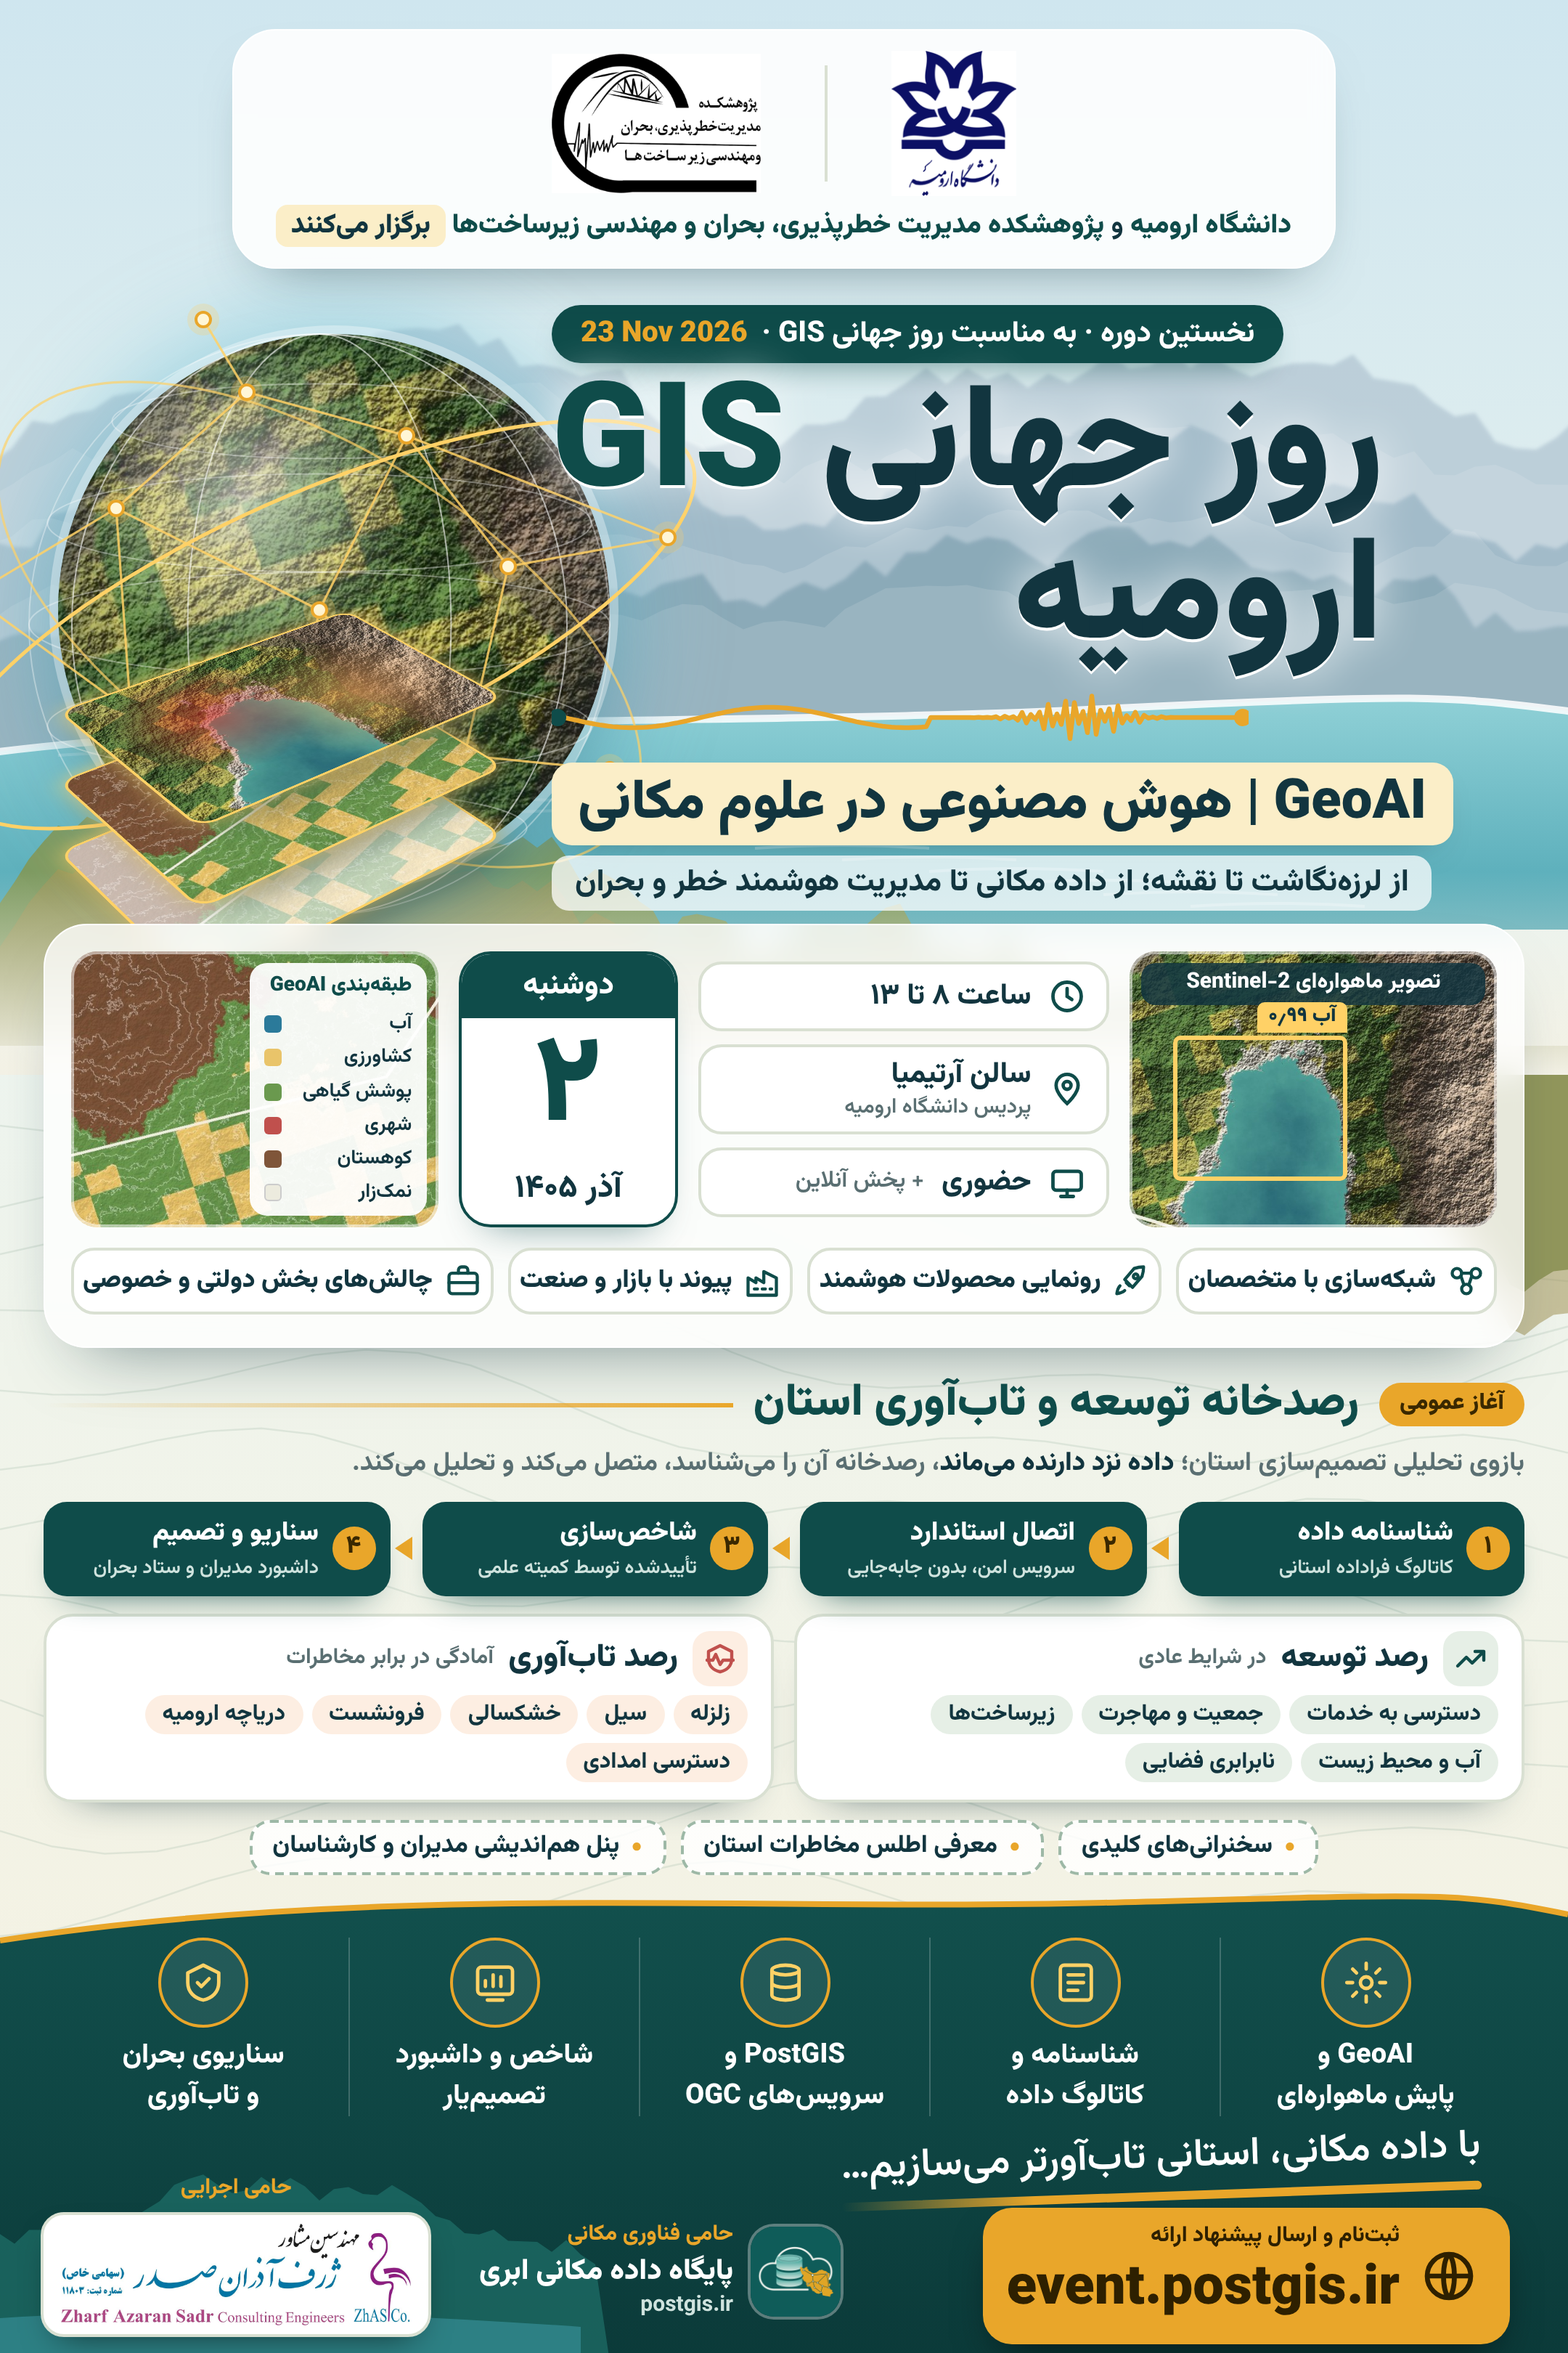
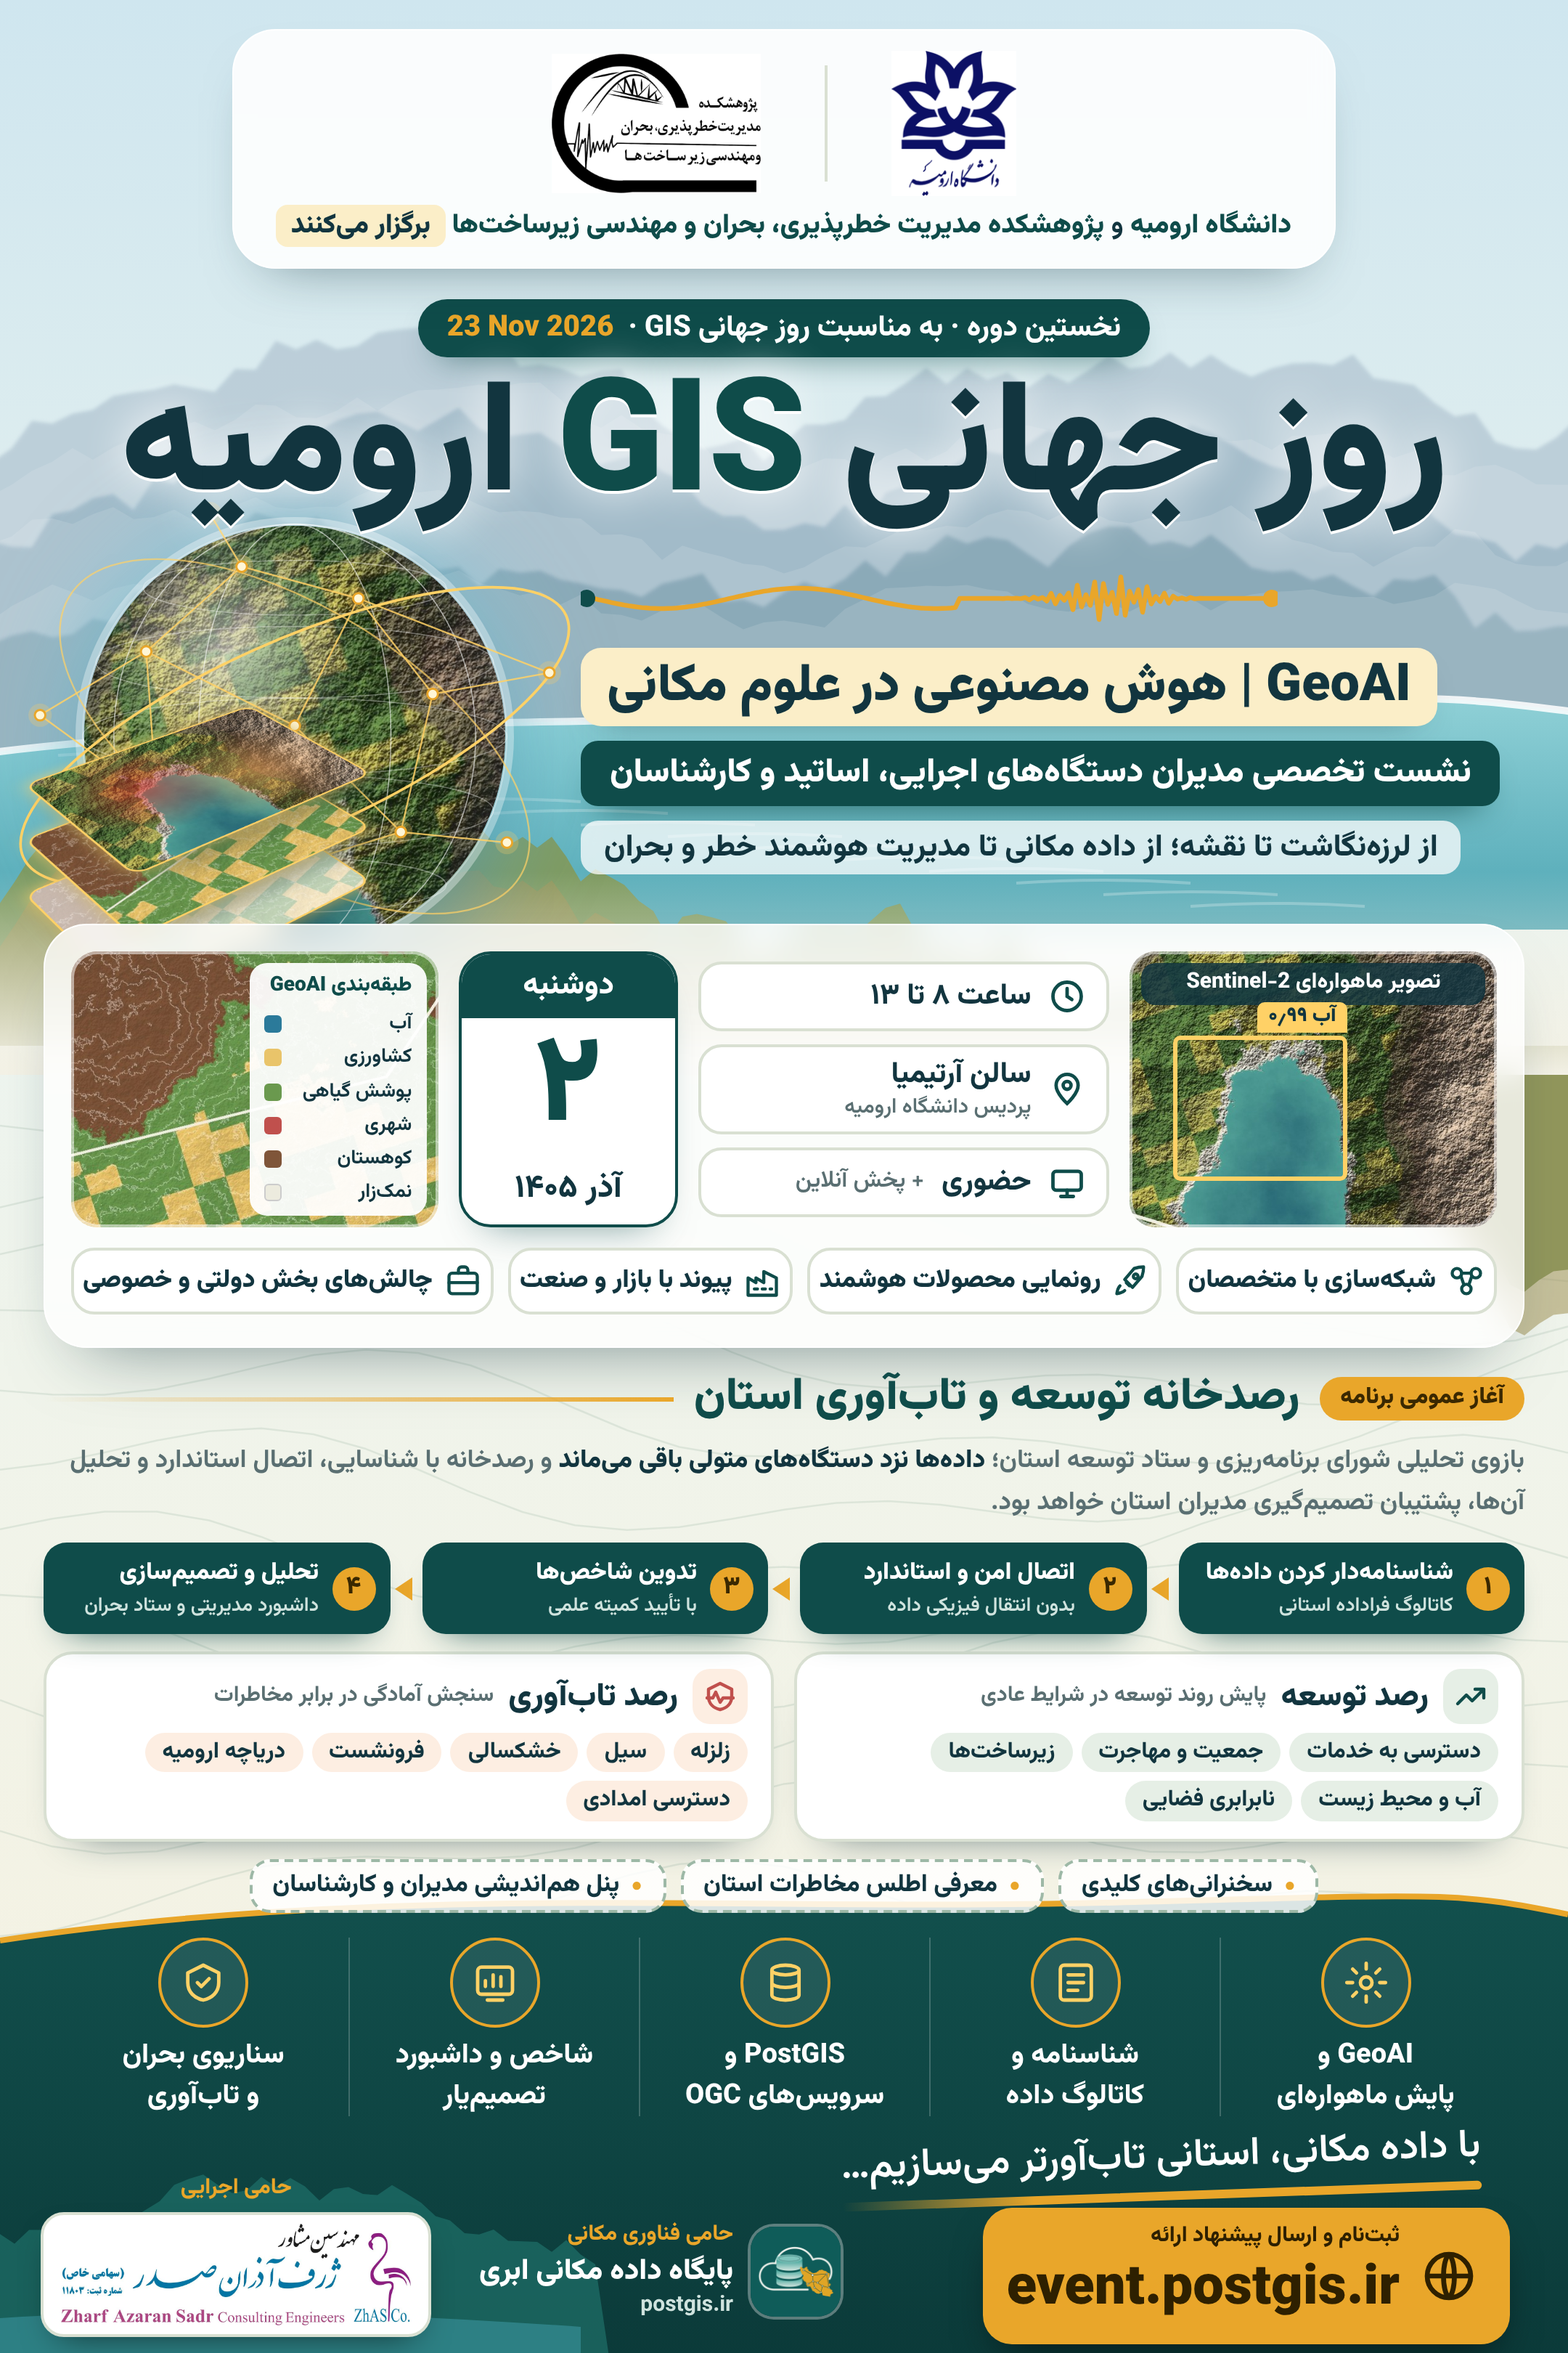
Poster v2: one-line title, formal subtitle for officials, formal observatory wording
Claude-Session: https://claude.ai/code/session_01611Z92RBWte6qBpQNsvh7V

Changed region(s): [[0.0, 0.1247, 0.9616, 0.4052], [0.031, 0.5611, 0.9926, 0.8105]]

diff --git a/promo/src/poster5.html b/promo/src/poster5.html
@@ -14,20 +14,22 @@ body{background:#f4f2e6}
 .statement b{color:var(--pri);font-weight:900}
 .statement .v{background:var(--acsoft);padding:0 10px;border-radius:8px;font-weight:900}
 /* hero */
-.hero{right:40px;top:210px;width:660px;display:flex;flex-direction:column;align-items:flex-end;gap:7px;z-index:4}
+.top{left:20px;right:20px;top:206px;display:flex;flex-direction:column;align-items:center;gap:6px;z-index:4}
+.hero{right:40px;top:392px;width:640px;display:flex;flex-direction:column;align-items:flex-end;gap:10px;z-index:4}
+.formal{font-size:23px;font-weight:900;color:#fff;background:var(--pri);padding:5px 20px;border-radius:12px;box-shadow:0 12px 24px -14px #0f4c4a}
 .kicker{display:inline-flex;gap:10px;align-items:center;background:var(--pri);color:#fff;font-weight:800;font-size:20px;padding:5px 20px;border-radius:99px;box-shadow:0 10px 24px -14px #0f4c4a}
 .kicker span{direction:ltr;color:var(--ac);font-weight:900}
-h1{font-size:100px;font-weight:900;line-height:1.05;white-space:nowrap;text-align:right;color:var(--dark);text-shadow:0 2px 0 #fff,0 0 30px rgba(255,255,255,.9)}
+h1{font-size:108px;font-weight:900;line-height:1.1;white-space:nowrap;text-align:center;letter-spacing:-1px;color:var(--dark);text-shadow:0 2px 0 #fff,0 0 30px rgba(255,255,255,.9)}
 h1 em{font-style:normal;color:var(--pri)}
-.axis{font-size:38px;font-weight:900;margin-top:4px}
+.axis{font-size:36px;font-weight:900;margin-top:4px}
 .axis mark{box-shadow:0 10px 24px -16px #12353f88}
 .sub{font-size:21px;font-weight:800;color:var(--tx);background:rgba(255,255,255,.75);padding:3px 16px;border-radius:12px}
 /* globe */
-.globe{left:40px;top:230px;width:380px;height:380px;z-index:3}
+.globe{left:58px;top:362px;width:290px;height:290px;z-index:3}
 .sphere{position:absolute;inset:0;border-radius:50%;background:url(../assets/crop-globe.jpg) center/150% auto;box-shadow:0 0 0 6px rgba(255,255,255,.35),0 0 60px 16px rgba(120,200,220,.55),0 30px 60px -20px #12353faa}
 .sphere:after{content:"";position:absolute;inset:0;border-radius:50%;background:radial-gradient(circle at 34% 30%,rgba(255,255,255,.55),rgba(255,255,255,0) 32%),radial-gradient(circle at 50% 50%,rgba(0,0,0,0) 55%,rgba(10,40,50,.55) 100%)}
-.net{position:absolute;inset:-60px;overflow:visible}
-.layers{left:70px;top:400px;width:300px;height:230px;z-index:4}
+.net{position:absolute;inset:-45px;overflow:visible;width:380px;height:380px}
+.layers{left:40px;top:470px;transform:scale(.78);transform-origin:0 0;width:300px;height:230px;z-index:4}
 .layer{position:absolute;left:0;width:250px;height:170px;border-radius:12px;transform:rotateX(58deg) rotateZ(-38deg);transform-origin:center;box-shadow:0 0 0 2px #ffd166,0 0 18px 2px rgba(255,209,102,.7),0 20px 30px -10px #12353f99;background-size:cover;background-position:center}
 /* info panel */
 .panel{left:30px;right:30px;top:636px;height:292px;background:rgba(255,255,255,.78);backdrop-filter:blur(10px);border:1.5px solid #fff;border-radius:30px;box-shadow:0 24px 50px -28px #12353f99;padding:18px;z-index:4}
@@ -85,15 +87,15 @@ h1 em{font-style:normal;color:var(--pri)}
 .loc i{width:52px;height:52px;border-radius:50%;border:2px solid #ffffffaa;display:grid;place-items:center;background:#ffffff1a}
 .loc b{display:block;font-size:21px;font-weight:900}.loc small{font-size:14px;color:#d6e6e2;font-weight:700}
 
-.obs{left:30px;right:30px;top:944px;z-index:4}
+.obs{left:30px;right:30px;top:940px;z-index:4}
 .obs-h{display:flex;align-items:center;gap:14px}
 .obs-h .badge{background:var(--ac);color:#3a2800;font-size:16px;font-weight:900;padding:3px 14px;border-radius:99px;white-space:nowrap}
 .obs-h h2{font-size:31px;font-weight:900;color:var(--pri);white-space:nowrap}
 .obs-h:after{content:"";flex:1;height:3px;background:linear-gradient(270deg,var(--ac),transparent)}
-.obs-sub{font-size:18px;font-weight:700;color:var(--mut);margin:4px 0 12px}
+.obs-sub{font-size:17.5px;font-weight:700;color:var(--mut);margin:4px 0 12px;line-height:1.7}
 .obs-sub b{color:var(--tx)}
 .flow{display:grid;grid-template-columns:repeat(4,1fr);gap:22px;direction:rtl;margin-bottom:12px}
-.flow div{position:relative;background:var(--pri);color:#fff;border-radius:16px;padding:9px 10px 9px 8px;font-size:18px;font-weight:900;display:flex;align-items:center;gap:9px;box-shadow:0 12px 24px -16px #0f4c4a}
+.flow div{position:relative;background:var(--pri);color:#fff;border-radius:16px;padding:9px 10px 9px 8px;font-size:16.5px;font-weight:900;display:flex;align-items:center;gap:9px;box-shadow:0 12px 24px -16px #0f4c4a}
 .flow div b{width:30px;height:30px;border-radius:50%;background:var(--ac);color:#3a2800;display:grid;place-items:center;font-size:17px;flex:none}
 .flow div small{display:block;font-size:13.5px;font-weight:600;color:#cfe3de}
 .flow div:not(:last-child):after{content:"";position:absolute;left:-19px;top:50%;margin-top:-8px;border:8px solid transparent;border-right:12px solid var(--ac);border-left:0}
@@ -126,12 +128,15 @@ h1 em{font-style:normal;color:var(--pri)}
  <div class="layer" style="top:0;background-image:radial-gradient(circle at 30% 40%,#d7302799,transparent 35%),radial-gradient(circle at 70% 60%,#fdae6199,transparent 40%),url(../assets/crop-natural.jpg)"></div>
 </div>
 
-<div class="abs hero">
+<div class="abs top">
  <div class="kicker">نخستین دوره · به مناسبت روز جهانی GIS · <span>23 Nov 2026</span></div>
- <h1>روز جهانی <em>GIS</em><br>ارومیه</h1>
+ <h1>روز جهانی <em>GIS</em> ارومیه</h1>
+</div>
+<div class="abs hero">
  <div id="wave"></div>
  <div class="axis"><mark>GeoAI | هوش مصنوعی در علوم مکانی</mark></div>
-<div class="sub">از لرزهنگاشت تا نقشه؛ از داده مکانی تا مدیریت هوشمند خطر و بحران</div>
+ <div class="formal">نشست تخصصی مدیران دستگاههای اجرایی، اساتید و کارشناسان</div>
+ <div class="sub">از لرزهنگاشت تا نقشه؛ از داده مکانی تا مدیریت هوشمند خطر و بحران</div>
 </div>
 
 <div class="abs panel">
@@ -154,18 +159,18 @@ h1 em{font-style:normal;color:var(--pri)}
 </div>
 
 <div class="abs obs">
- <div class="obs-h"><span class="badge">آغاز عمومی</span><h2>رصدخانه توسعه و تابآوری استان</h2></div>
- <div class="obs-sub">بازوی تحلیلی تصمیمسازی استان؛ <b>داده نزد دارنده میماند</b>، رصدخانه آن را میشناسد، متصل میکند و تحلیل میکند.</div>
+ <div class="obs-h"><span class="badge">آغاز عمومی برنامه</span><h2>رصدخانه توسعه و تابآوری استان</h2></div>
+ <div class="obs-sub">بازوی تحلیلی شورای برنامهریزی و ستاد توسعه استان؛ <b>دادهها نزد دستگاههای متولی باقی میماند</b> و رصدخانه با شناسایی، اتصال استاندارد و تحلیل آنها، پشتیبان تصمیمگیری مدیران استان خواهد بود.</div>
  <div class="flow">
-  <div><b>۱</b><span>شناسنامه داده<small>کاتالوگ فراداده استانی</small></span></div>
-  <div><b>۲</b><span>اتصال استاندارد<small>سرویس امن، بدون جابهجایی</small></span></div>
-  <div><b>۳</b><span>شاخصسازی<small>تأییدشده توسط کمیته علمی</small></span></div>
-  <div><b>۴</b><span>سناریو و تصمیم<small>داشبورد مدیران و ستاد بحران</small></span></div>
+  <div><b>۱</b><span>شناسنامهدار کردن دادهها<small>کاتالوگ فراداده استانی</small></span></div>
+  <div><b>۲</b><span>اتصال امن و استاندارد<small>بدون انتقال فیزیکی داده</small></span></div>
+  <div><b>۳</b><span>تدوین شاخصها<small>با تأیید کمیته علمی</small></span></div>
+  <div><b>۴</b><span>تحلیل و تصمیمسازی<small>داشبورد مدیریتی و ستاد بحران</small></span></div>
  </div>
  <div class="twin">
-  <div class="tw"><h3><i style="background:var(--bg2)"><svg width="24" height="24" viewBox="0 0 24 24" fill="none" stroke="#0f4c4a" stroke-width="2.2" stroke-linecap="round" stroke-linejoin="round"><path d="M3 17l6-6 4 4 8-8M15 7h6v6"/></svg></i>رصد توسعه <small>در شرایط عادی</small></h3>
+  <div class="tw"><h3><i style="background:var(--bg2)"><svg width="24" height="24" viewBox="0 0 24 24" fill="none" stroke="#0f4c4a" stroke-width="2.2" stroke-linecap="round" stroke-linejoin="round"><path d="M3 17l6-6 4 4 8-8M15 7h6v6"/></svg></i>رصد توسعه <small>پایش روند توسعه در شرایط عادی</small></h3>
    <div class="chips"><span>دسترسی به خدمات</span><span>جمعیت و مهاجرت</span><span>زیرساختها</span><span>آب و محیط زیست</span><span>نابرابری فضایی</span></div></div>
-  <div class="tw r"><h3><i style="background:#fdeee2"><svg width="24" height="24" viewBox="0 0 24 24" fill="none" stroke="#c0504d" stroke-width="2.2" stroke-linecap="round" stroke-linejoin="round"><path d="M12 3l8 4v5c0 5-3.5 8-8 9-4.5-1-8-4-8-9V7z"/><path d="M3 13h4l2-4 3 7 2-3h7"/></svg></i>رصد تابآوری <small>آمادگی در برابر مخاطرات</small></h3>
+  <div class="tw r"><h3><i style="background:#fdeee2"><svg width="24" height="24" viewBox="0 0 24 24" fill="none" stroke="#c0504d" stroke-width="2.2" stroke-linecap="round" stroke-linejoin="round"><path d="M12 3l8 4v5c0 5-3.5 8-8 9-4.5-1-8-4-8-9V7z"/><path d="M3 13h4l2-4 3 7 2-3h7"/></svg></i>رصد تابآوری <small>سنجش آمادگی در برابر مخاطرات</small></h3>
    <div class="chips"><span>زلزله</span><span>سیل</span><span>خشکسالی</span><span>فرونشست</span><span>دریاچه ارومیه</span><span>دسترسی امدادی</span></div></div>
  </div>
  <div class="prog"><span>سخنرانیهای کلیدی</span><span>معرفی اطلس مخاطرات استان</span><span>پنل هماندیشی مدیران و کارشناسان</span></div>
